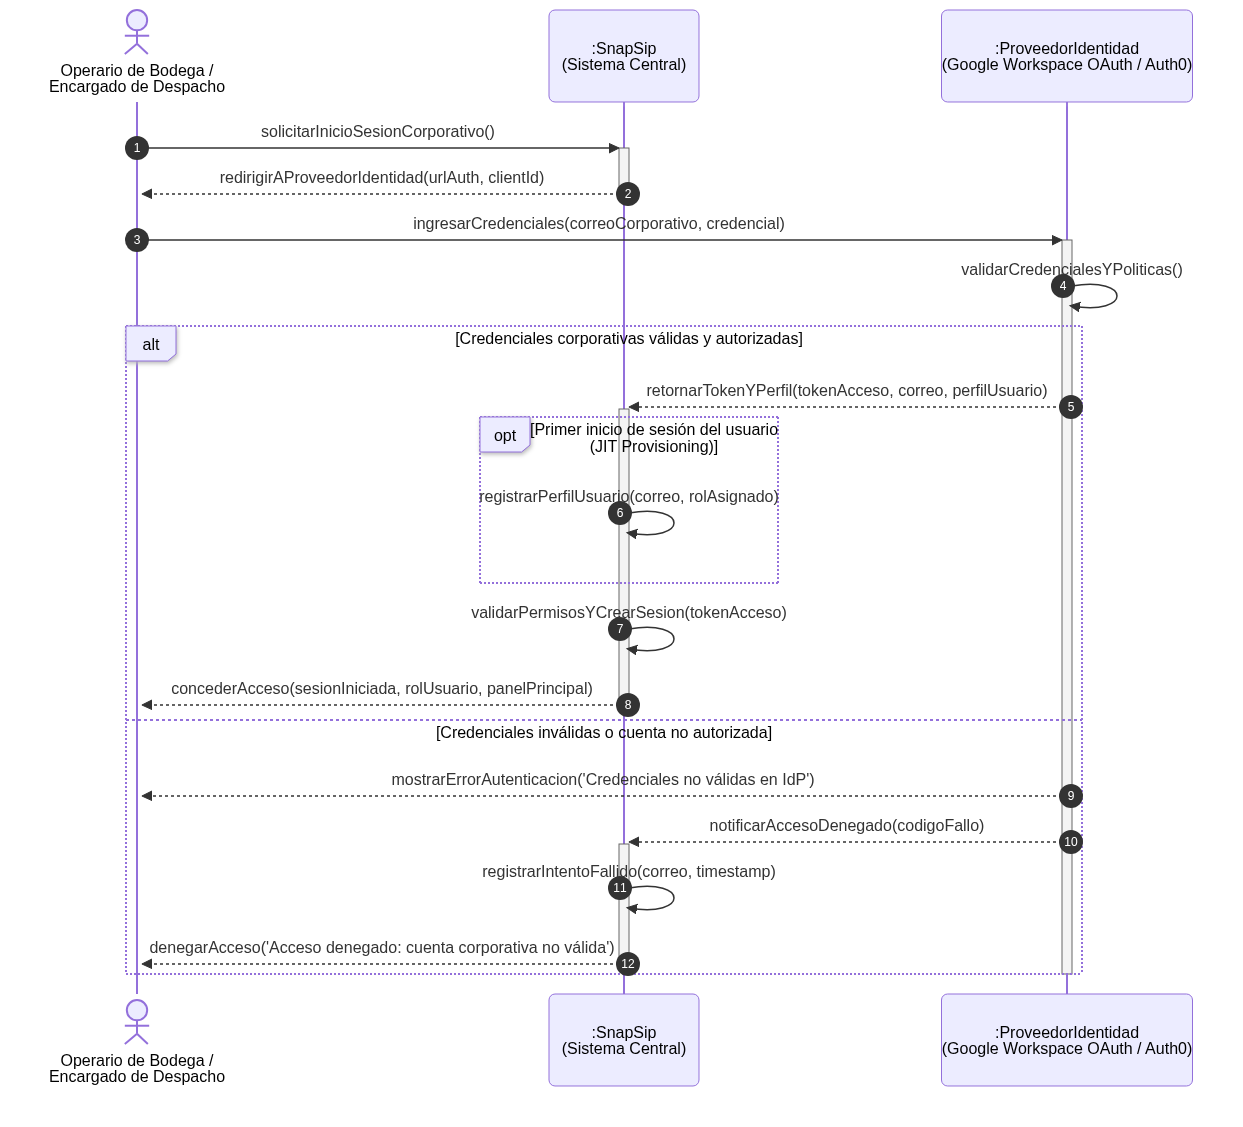
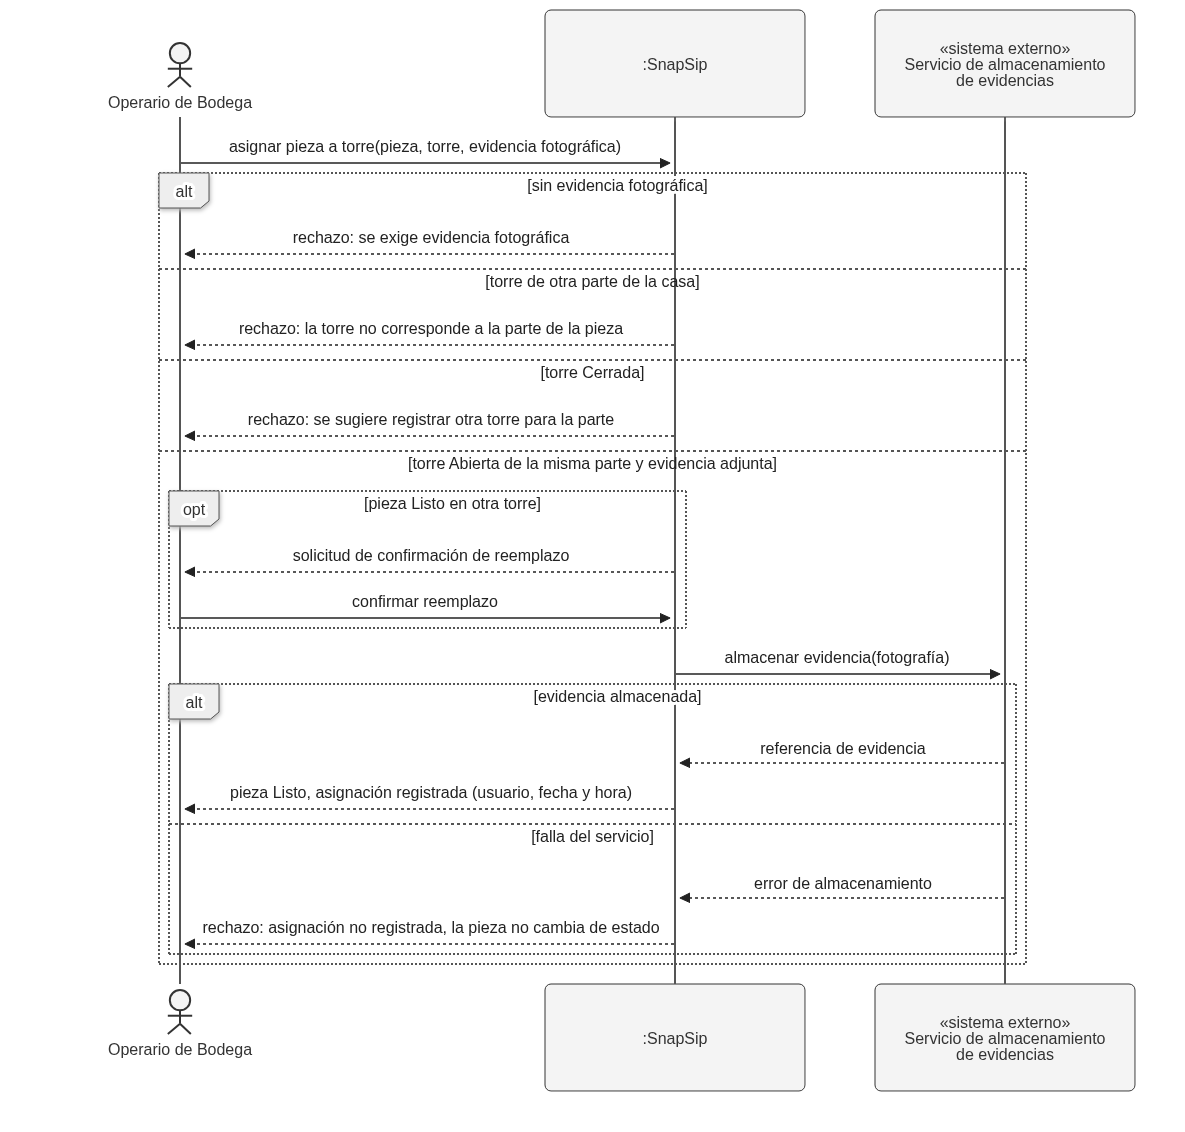
aaadaaww

diff --git a/IngReq-Entrega 2.md b/IngReq-Entrega 2.md
@@ -1,0 +1,33 @@
+# Ingeniería de Requisitos — Entrega 2
+
+## Equipo
+- David Núñez
+- Sebastián Fredy González
+- Diego Marengo
+
+## Proyecto
+**SnapSip** — Plataforma web para el control de inventario, verificación visual con respaldo fotográfico de torres y paneles, y emisión y validación de guías de despacho en faenas de construcción para casas prefabricadas y proyectos modulares.
+
+## Responsabilidades individuales
+| Documento | Ítem de rúbrica | Responsable(s) |
+|-----------|:---------------:|----------------|
+| [07-criterios-aceptacion.md](./07-criterios-aceptacion.md) | 1 | Sebastián Fredy González |
+| [08-modelo-dominio.md](./08-modelo-dominio.md) | 2 | Diego Marengo |
+| [09-casos-de-uso.md](./09-casos-de-uso.md) | 3 | Sebastián Fredy González |
+| [10-diagramas-secuencia.md](./10-diagramas-secuencia.md) | 4 | David Núñez |
+| [11-diagramas-estado.md](./11-diagramas-estado.md) | 5 | David Núñez |
+| [12-trazabilidad.md](./12-trazabilidad.md) | 6 | Diego Marengo |
+
+## Uso de IA generativa
+Se utilizó Google Antigravity (Gemini) como herramienta de apoyo para estructurar los borradores iniciales de los artefactos Markdown conforme a las plantillas solicitadas, generar código Mermaid para los diagramas UML 2.0 y formular la matriz de trazabilidad cruzada. Todo el contenido generado fue minuciosamente revisado, corregido y validado por los integrantes del equipo para asegurar estricta coherencia con las reglas del negocio, el modelo de dominio y los procesos TO-BE acordados para SnapSip.
+
+## Entrega anterior
+[IngReq-Entrega 1](./IngReq-Entrega%201.md)
+
+## Índice de documentos
+1. [Criterios de aceptación (Gherkin)](./07-criterios-aceptacion.md)
+2. [Modelo de dominio](./08-modelo-dominio.md)
+3. [Casos de uso](./09-casos-de-uso.md)
+4. [Diagramas de secuencia de sistema](./10-diagramas-secuencia.md)
+5. [Diagramas de estado](./11-diagramas-estado.md)
+6. [Trazabilidad](./12-trazabilidad.md)
